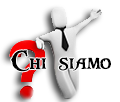
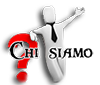
riduzione immagini menu

diff --git a/logs/jcontroller.log.php b/logs/jcontroller.log.php
@@ -300,3 +300,5 @@
 2015-04-14T18:03:27+00:00	INFO ::1	controller	Releasing edit ID com_advancedmodules.edit.module.70 Array ( ) 
 2015-04-14T18:03:44+00:00	INFO ::1	controller	Holding edit ID com_templates.edit.style.7 Array (     [0] => 7 ) 
 2015-04-14T18:03:45+00:00	INFO ::1	controller	Checking edit ID com_templates.edit.style.7: 1 Array (     [0] => 7 ) 
+2015-04-16T18:32:35+00:00	INFO ::1	controller	Holding edit ID com_menus.edit.item.315 Array (     [0] => 315 ) 
+2015-04-16T18:33:17+00:00	INFO ::1	controller	Holding edit ID com_menus.edit.item.315 Array (     [0] => 315 ) 
